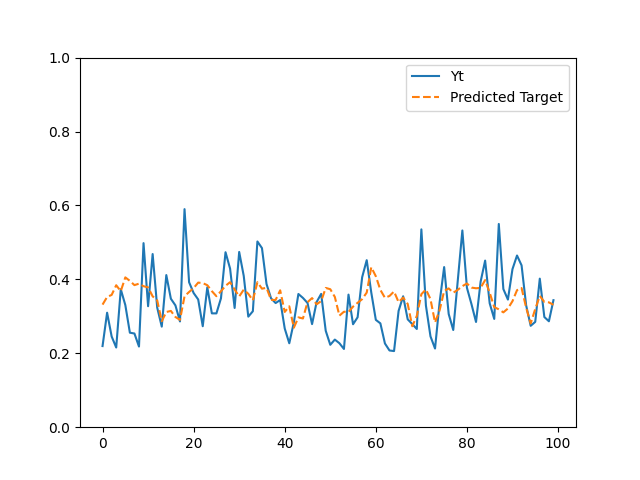
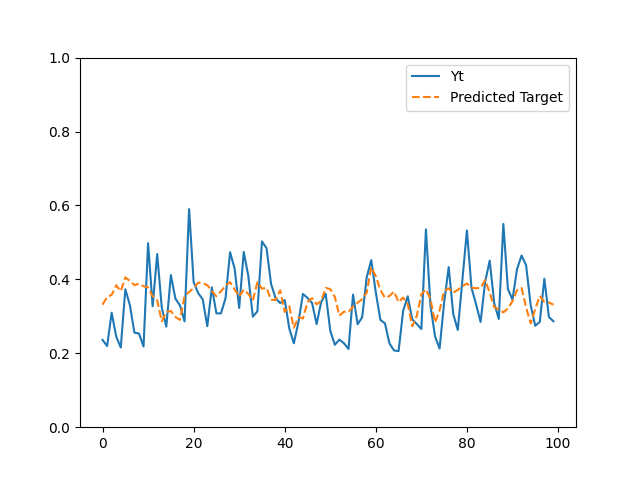
fixed bug that caused outputs to be shifted

Changed region(s): [[0.4375, 0.4688, 0.875, 0.75], [0.1562, 0.4375, 0.4375, 0.7188]]

diff --git a/python/dfr_sw_float_spectrum.py b/python/dfr_sw_float_spectrum.py
@@ -44,16 +44,16 @@ target = spectrum_vector[:,1].reshape((1,spectrum_vector.shape[0]))
 # initLen	= number of samples used in initialization
 # trainLen	= number of samples used in training
 # testLen	= number of samples used in testing
-
+NUM_SAMPLES = 6102
 Tp          = 100
 N           = Tp
 theta       = Tp / N
 gamma       = 0.8
 # eta         = 1 - gamma
 eta         = 1/4
-initLen     = 1 
-trainLen	= 3660
-testLen     = 2439
+initLen     = 20 
+trainLen	= 49 * initLen 
+testLen     = NUM_SAMPLES - (trainLen + initLen + initLen)
 
 ##  Define the masking (input weight, choose one of the followings)
 
@@ -81,22 +81,21 @@ inputTR = np.ndarray(shape=((initLen + trainLen) * Tp,1))
 
 for k in range(0,(initLen + trainLen)):
     uTR = data[0,k]
-    # multiply input by mask and convert to int
     masked_input = (M * uTR)
     inputTR[k*Tp:(k+1)*Tp] = masked_input.copy()
 
 MAX_INPUT = np.max(inputTR)
 
 ##  (Training) Initialize the reservoir layer
+
 # No need to store these values since they won't be used in training
 for k in range(0,(initLen * Tp)):
+
     # Compute the new input data for initialization
     initJTR = (inputTR[k,0]) + eta * (nodeC[N-1,0])
     
     # Activation
-    # multiply by 8 to scale 12-bit output to 16 bits (15 bits unsigned)
     nodeN[0,0]	= (mackey_glass(initJTR))
-    # nodeN[0,0]  = (1 / (1 + np.exp( 12 * (inputTR[k,0] - 0.75) ) ) ) - eta * nodeC[N-1,0]
     nodeN[1:N]  = nodeC[0:(N - 1)]
     
     # Update the current node state
@@ -105,6 +104,7 @@ for k in range(0,(initLen * Tp)):
 
 ##	(Training) Run data through the reservoir
 for k in range(0,(trainLen * Tp)):
+
     # Define the time step that starts storing node states
     t = initLen * Tp + k
     
@@ -113,7 +113,6 @@ for k in range(0,(trainLen * Tp)):
     
     # Activation
     nodeN[0,0]	= (mackey_glass(trainJ))
-    # nodeN[0,0]  = (1 / (1 + np.exp( 12 * (inputTR[k,0] - 0.75) ) ) ) - eta * nodeC[N-1,0]
     nodeN[1:N]  = nodeC[0:(N - 1)]
     
     # Update the current node state
@@ -130,7 +129,6 @@ nodeTR[:,0:trainLen] = nodeE[:, N*np.arange(1,trainLen + 1)-1]
 ##  Train output weights using ridge regression
 
 # Call-out the target outputs
-# Scale to put the data in the same range as input
 Yt = target[0,initLen:(initLen + trainLen)].reshape(1,trainLen)
 
 # Transpose nodeR for matrix claculation
@@ -138,11 +136,11 @@ nodeTR_T = nodeTR.T
 
 # Calculate output weights
 reg = 1e-8
-# Wout = np.dot(np.dot(Yt,nodeTR_T),np.linalg.inv((np.dot(nodeTR,nodeTR_T))))
 Wout = np.dot(np.dot(Yt,nodeTR_T),np.linalg.inv((np.dot(nodeTR,nodeTR_T)) + reg * np.eye(N)))
 
 ##  Compute training error
 predicted_target = np.dot(Wout,nodeTR)
+predicted_target = predicted_target > 0.5
 
 # Calculate the MSE through L2 norm
 mseTR = (((Yt - predicted_target)**2).mean(axis=1))
@@ -193,7 +191,6 @@ for k in range(0,(initLen * Tp)):
     
     # Activation
     nodeN[0,0]	= (mackey_glass(initJTS))
-    # nodeN[0,0]  = (1 / (1 + np.exp( 12 * (inputTS[k,0] - 0.75) ) ) ) - eta * nodeC[N-1,0]
     nodeN[1:N]  = nodeC[0:(N - 1)]
     
     # Update the current node state
@@ -203,6 +200,7 @@ for k in range(0,(initLen * Tp)):
 
 ##  (Testing) Run data through the reservoir
 for k in range(0,(testLen * Tp)):
+
     # Define the time step that starts storing node states
     t = initLen * Tp + k
     
@@ -211,7 +209,6 @@ for k in range(0,(testLen * Tp)):
     
     # Activation
     nodeN[0,0]	= (mackey_glass(testJ))
-    # nodeN[0,0]  = (1 / (1 + np.exp( 12 * (inputTS[k,0] - 0.75) ) ) ) - eta * nodeC[N-1,0]
     nodeN[1:N]  = nodeC[0:(N - 1)]
     
     # Update the current node state
@@ -229,7 +226,7 @@ nodeTS[:,0:testLen] = nodeE[:, N*np.arange(1,testLen + 1)-1]
 ##  Compute testing errors
 
 # Call-out the target outputs
-Yt = target[0,initLen + trainLen + initLen + 1 : initLen + trainLen + initLen + 1 + testLen].reshape(1,testLen)
+Yt = target[0,initLen + trainLen + initLen : initLen + trainLen + initLen + testLen].reshape(1,testLen)
 
 predicted_target = np.dot(Wout,nodeTS)
 predicted_target = predicted_target > 0.5
@@ -239,7 +236,6 @@ mse_testing = (((Yt - predicted_target)**2).mean(axis=1))
 
 # Calculate the NMSE
 nmse_testing  = (np.linalg.norm(Yt - predicted_target) / np.linalg.norm(Yt))**2
-nmse_testing  = (np.linalg.norm(Yt[0,0:testLen-1] - predicted_target[0,1:testLen]) / np.linalg.norm(Yt[0,0:testLen-1]))**2
 nrmse_testing = (np.linalg.norm(Yt - predicted_target) / np.linalg.norm(Yt))
 # nmse_testing  =         np.sum((Yt - predicted_target)**2 / np.var(Yt)) / Yt.size
 # nrmse_testing = np.sqrt(np.sum((Yt - predicted_target)**2 / np.var(Yt)) / Yt.size)
@@ -264,8 +260,6 @@ import matplotlib.pyplot as plt
 SAMPLES = 200
 x = np.linspace(0,SAMPLES-1,SAMPLES)
 plt.plot(x,Yt[0,0:SAMPLES],label="Yt")
-# plt.plot(x,predicted_target[0,0:SAMPLES],'--',label="Predicted Target")
-plt.plot(x,predicted_target[0,1:SAMPLES+1],'--',label="Predicted Target")
+plt.plot(x,predicted_target[0,0:SAMPLES],'--',label="Predicted Target")
 plt.legend()
-# plt.ylim([0,1])
 plt.savefig("./data/dfr_sw_float_spectrum_fig.png")

diff --git a/python/dfr_sw_int_narma10.py b/python/dfr_sw_int_narma10.py
@@ -242,7 +242,7 @@ nodeTS[:,0:testLen] = nodeE[:, N*np.arange(1,testLen + 1)-1]
 ##  Compute testing errors
 
 # Call-out the target outputs
-Yt = target[0,initLen + trainLen + initLen + 1 : initLen + trainLen + initLen + 1 + testLen].reshape(1,testLen) * YT_SCALE
+Yt = target[0,initLen + trainLen + initLen : initLen + trainLen + initLen + testLen].reshape(1,testLen) * YT_SCALE
 
 predicted_target = np.dot(Wout,nodeTS)
 

diff --git a/python/dfr_sw_float_narma10.py b/python/dfr_sw_float_narma10.py
@@ -244,7 +244,7 @@ nodeTS[:,0:testLen] = nodeE[:, N*np.arange(1,testLen + 1)-1]
 ##  Compute testing errors
 
 # Call-out the target outputs
-Yt = target[0,initLen + trainLen + initLen + 1 : initLen + trainLen + initLen + 1 + testLen].reshape(1,testLen)
+Yt = target[0,initLen + trainLen + initLen : initLen + trainLen + initLen + testLen].reshape(1,testLen)
 
 predicted_target = np.dot(Wout,nodeTS)
 
